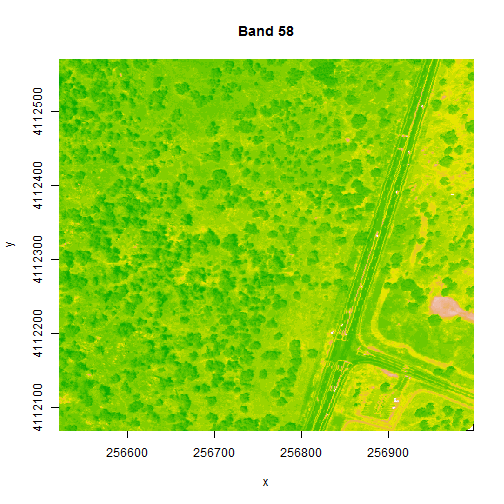
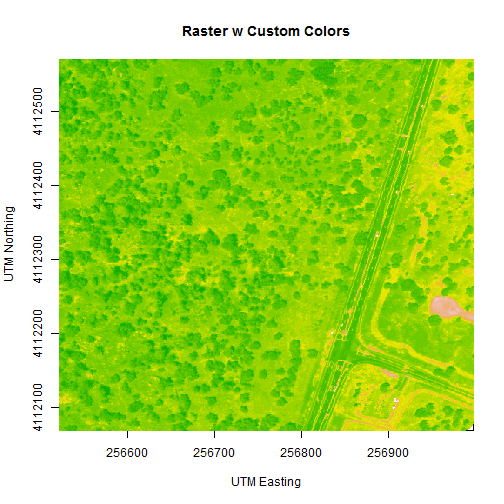
fixed plot code

Changed region(s): [[0.3571, 0.0298, 0.6845, 0.0893], [0.4464, 0.9226, 0.5952, 0.9821], [0.0, 0.3869, 0.0298, 0.5655]]

diff --git a/_posts/HYPERSPECTRAL/2015-06-08-Work-With-Hyperspectral-Data-In-R.md b/_posts/HYPERSPECTRAL/2015-06-08-Work-With-Hyperspectral-Data-In-R.md
@@ -539,14 +539,15 @@ We can adjust the colors too
 
     #let's change the colors of our raster and adjust the zlims 
     col=terrain.colors(25)
-    image(b34r, main="Band 34", 
+    
+    image(b34r,  
           xlab = "UTM Easting", 
           ylab = "UTM Northing",
           main= "Raster w Custom Colors",
           col=col, 
           zlim=c(0,3000))
 
-    ## Error in plot.default(xlim, ylim, xlim = xlim, ylim = ylim, type = "n", : formal argument "main" matched by multiple actual arguments
+![ ]({{ site.baseurl }}/images/rfigs/2015-06-08-Work-With-Hyperspectral-Data-In-R/plot-colors-raster-1.png) 
 
 
 We've now created a raster from band 34 reflectance data. We can export the data
